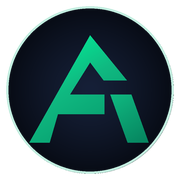
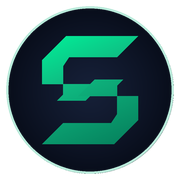
Update 25

Changed region(s): [[0.1667, 0.1944, 0.8333, 0.8056]]

diff --git a/src/components/Logo.jsx b/src/components/Logo.jsx
@@ -52,16 +52,16 @@ export default function Logo({ size = "md", className = "", onClick }) {
         {/* 1. Circular Dark Navy Base */}
         <circle cx="60" cy="60" r="56" fill="url(#biz-bg-comp)" stroke="#10b981" strokeWidth="1.5" strokeOpacity="0.3" />
 
-        {/* 2. Part 1: Main Chevron Apex, Left Leg & Crossbar */}
+        {/* 2. Part 1: Upper Geometric 'S' Facet */}
         <path
-          d="M60 23.5 L84.5 53.5 L69 53.5 L60 41.5 L46.5 63 L69.5 63 L69.5 76 L38.5 76 L33 95 L19.5 95 Z"
+          d="M92 24 L44 24 L28 40 L28 56 L68 56 L57 67 L38 67 L42 63 L42 44 L46 38 L78 38 Z"
           fill="url(#biz-emerald-comp-1)"
           filter="url(#biz-glow-comp)"
         />
 
-        {/* 3. Part 2: Lower Right Geometric Leg */}
-        <polygon
-          points="73.5,63 87.5,63 99,95 85,95"
+        {/* 3. Part 2: Lower Geometric 'S' Facet */}
+        <path
+          d="M28 96 L76 96 L92 80 L92 64 L52 64 L63 53 L82 53 L78 57 L78 76 L74 82 L42 82 Z"
           fill="url(#biz-emerald-comp-2)"
         />
       </svg>
